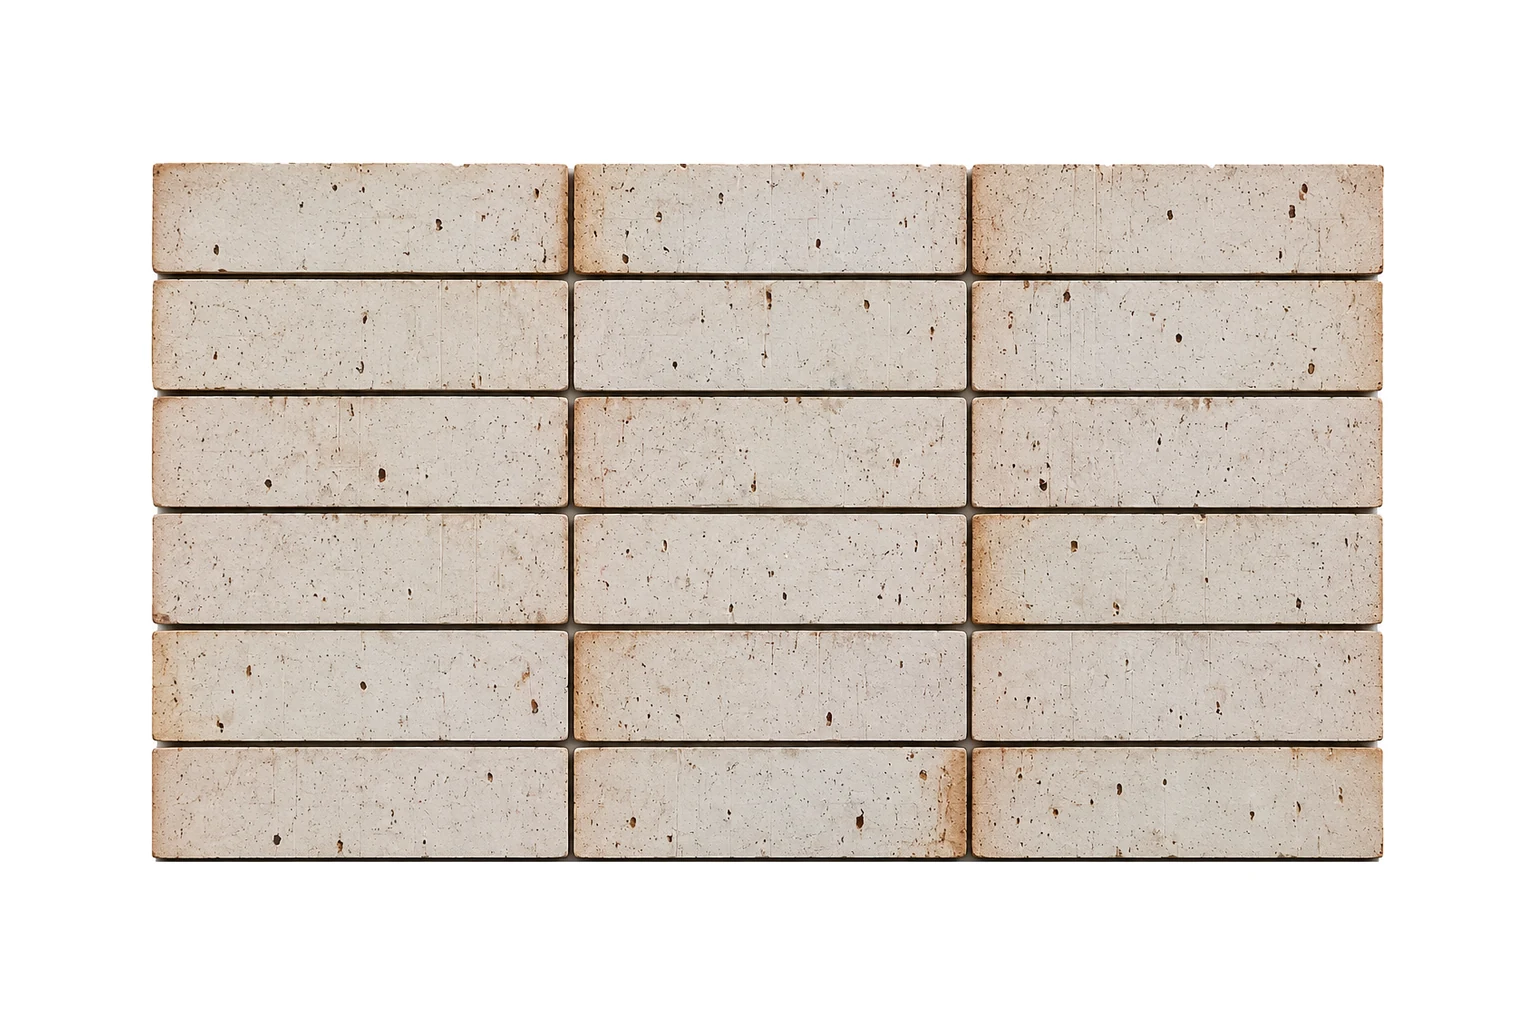
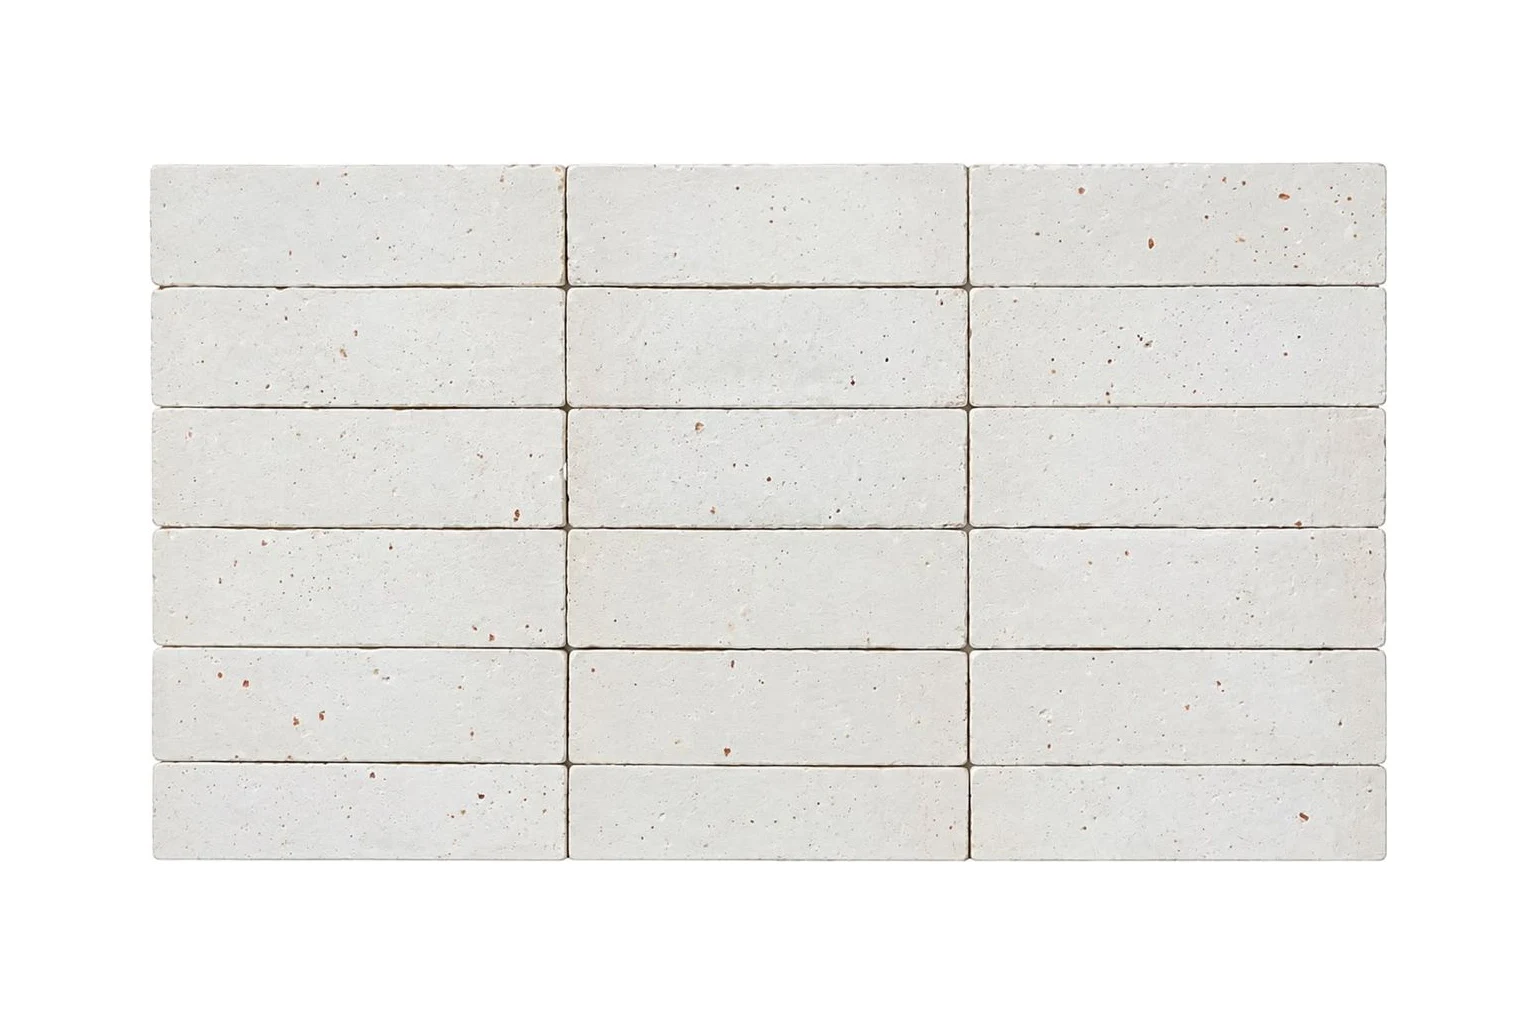
Normaliza la foto de Bianco al encuadre de sus hermanas
Gerencia: «la foto de bianco se ve mucho más grande que las otras».

No era el peso del archivo sino el encuadre. Las tres fotos originales de
Thin Brick comparten lienzo de 1536×1024 y tienen el bloque de ladrillo a
exactamente 700 px de alto, con margen blanco alrededor. La que se bajó
del ERP venía en 1280×960 y el bloque ocupaba el 98% del ancho, casi sin
margen: al ponerlas una al lado de otra, la pieza se veía mucho mayor.

Se recorta al contenido, se escala a los mismos 700 px de alto y se
centra en el lienzo de 1536×1024. Queda en 1238 px de ancho, en línea con
sus hermanas (1133–1233) y con la Bianco anterior, que medía 1233.

Vuelve a .webp, como las otras tres.

diff --git a/src/utils/variantGallery.ts b/src/utils/variantGallery.ts
@@ -130,7 +130,7 @@ const GALLERY_CONFIG: Record<string, ProductGalleryConfig> = {
   "enchape-thinbrick": {
     heroProductByVariant: {
       natural: "enchape-thinbrick-natural.webp",
-      bianco: "enchape-thinbrick-bianco-real.jpg",
+      bianco: "enchape-thinbrick-bianco-real.webp",
       capuccino: "enchape-thinbrick-capuccino-real.webp",
       cocoa: "enchape-thinbrick-cocoa-real.webp",
     },
